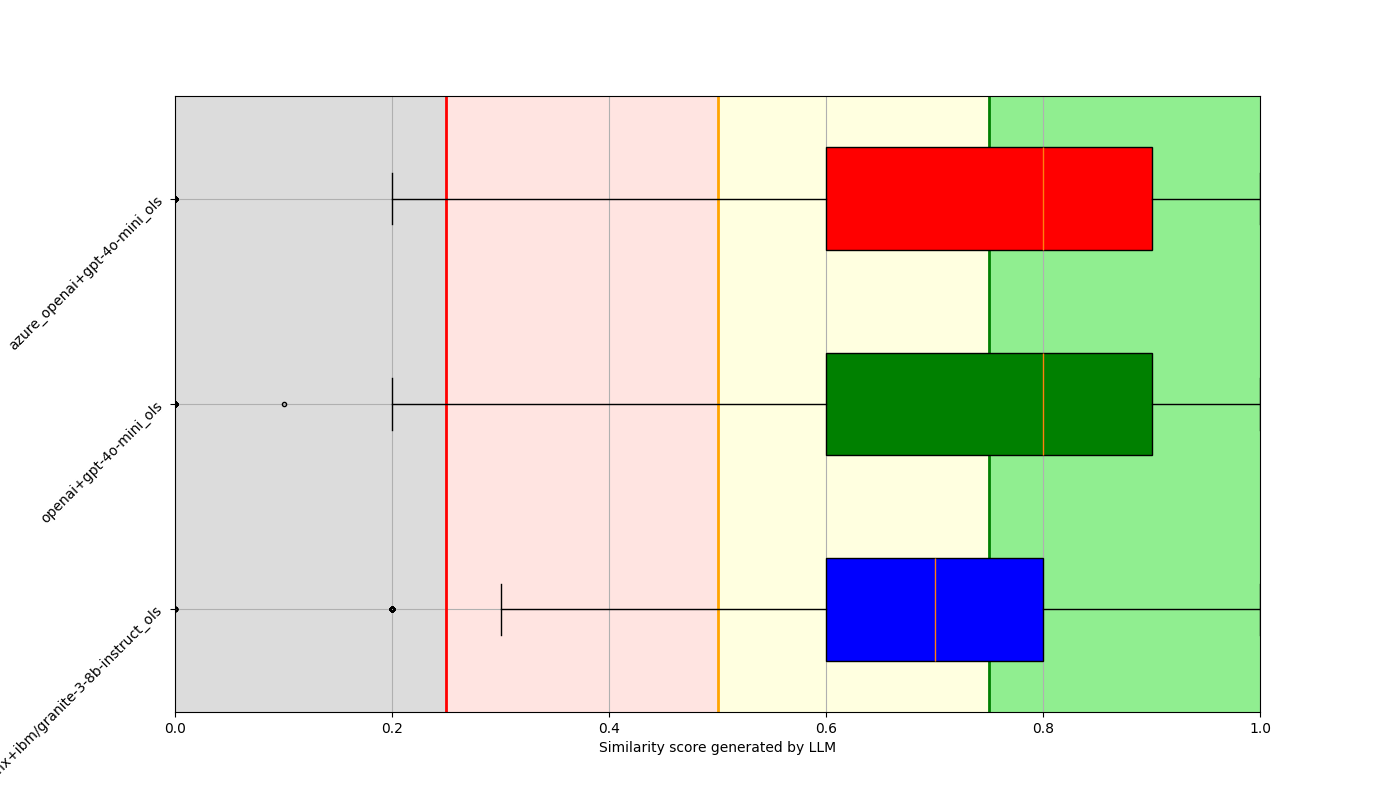
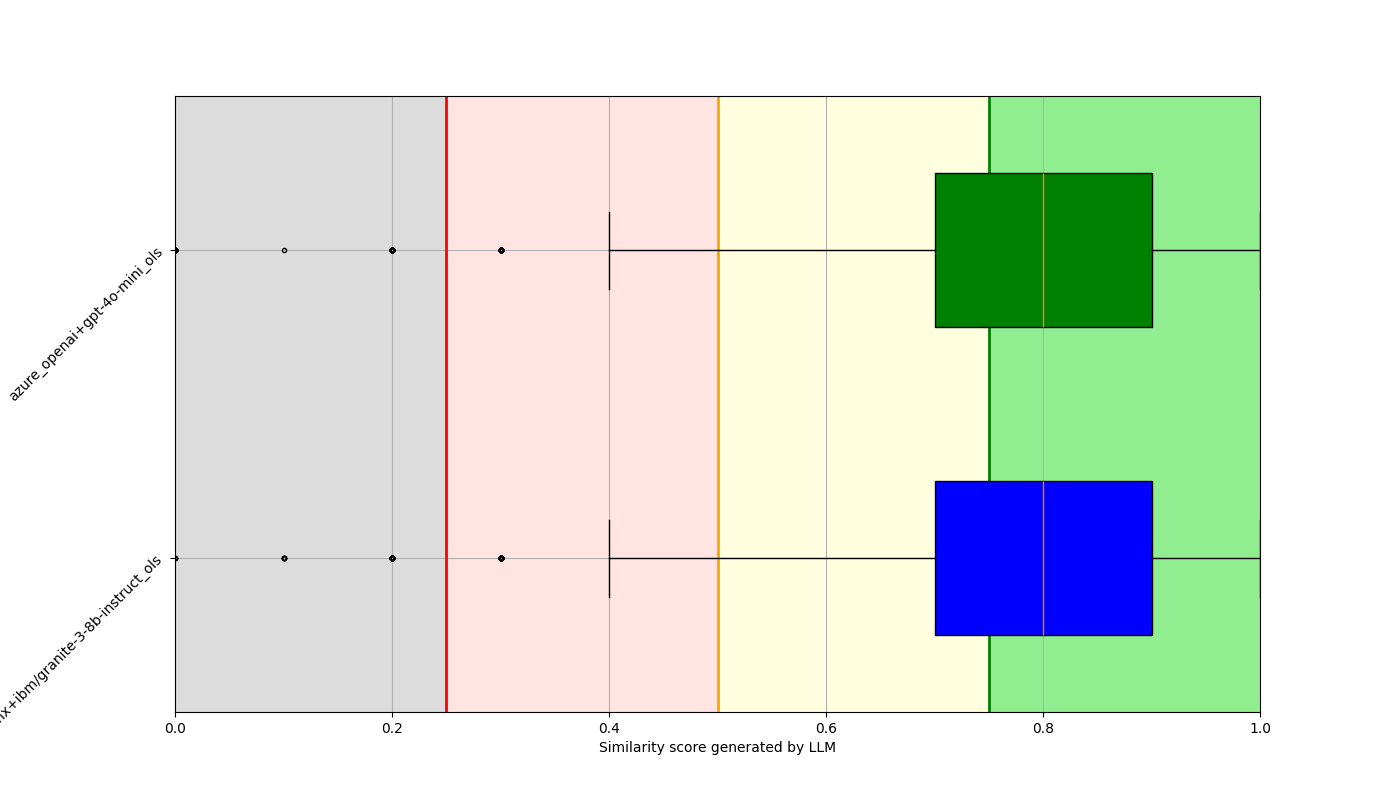
Updated evaluation results

diff --git a/scripts/evaluation/eval_data/result/README.md b/scripts/evaluation/eval_data/result/README.md
@@ -6,13 +6,17 @@
 - [Instruction to run eval script](../../README.md)
 
 ## Result
-- Last Execution date: `2024-11-30`
+- Last Execution date: `2025-03-02`
 - Evaluated Provider/Models:
-    - (watsonx) ibm/granite-3-8b-instruct
-    - (openai) gpt-4o-mini (Model Version: 2024-07-18)
+    - (watsonx) ibm/granite-3-8b-instruct (API Version: 2024-11-27)
     - (azure) gpt-4o-mini (Model Version: 2024-07-18, API Version: 2024-02-15-preview)
-- Judge provider/model (LLM based eval): (openai) gpt-4o-mini
+- Judge provider/model (LLM based eval): (watsonx) llama-3-1-8b-instruct
 - QnA evaluation dataset: [QnAs from OCP doc](../ocp_doc_qna-edited.parquet)
+- RAG SHA: e4420ab37f9ad90daeab93ba6717db6d388c69a357d0eeb486d1d2d0bc15e085
+    - Embedding model: all-mpnet-base-v2
+    - Splitter: Normal (chunk: 380)
+    - Vector DB: faiss
+    - Retrieval: Top 5 (cosine similarilty)
 
 ### Scores
 Please look at below box-plots to have an idea about overall score for QnAs. `Ideal result`: Box should be as condense as possible and near to right side (close to 1).
